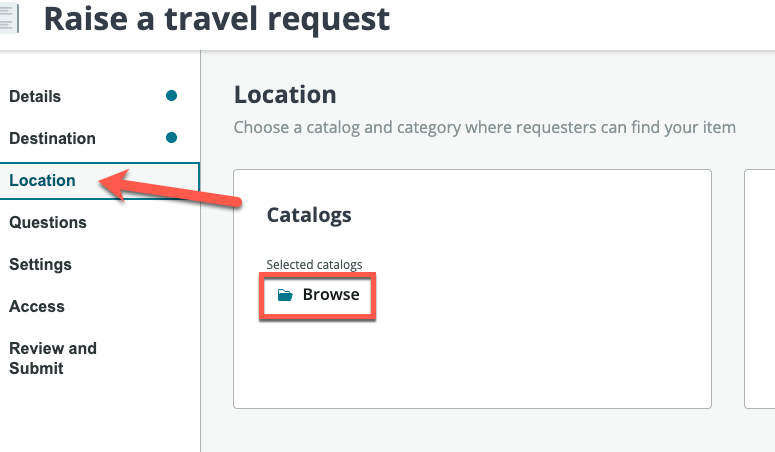
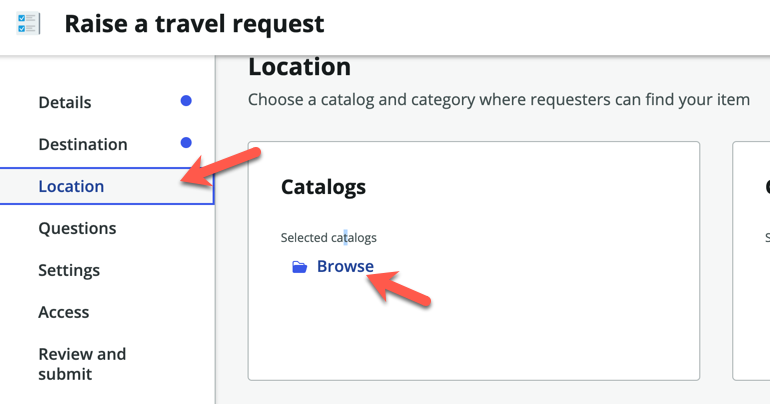
utah update

diff --git a/docs/Exercise 2.md b/docs/Exercise 2.md
@@ -23,8 +23,6 @@ For this exercise, we will focus on exposing your newly created table on one of 
 1. Click **Begin**
 
 1. On the **ADD EXPERIENCE** screen, enter *Raise a travel request* under **Name**, and *Capture employee travel requests* for description
-
-    ![relative](images/namerp.png)
     
 1. Click **Continue**
 
@@ -48,9 +46,11 @@ For this exercise, we will focus on exposing your newly created table on one of 
 
     ![relative](images/browse.png)
 
-1. On the next screen, look for **Service Catalog** under the **Available** section and move it to the right (Your list might appear different from the screenshot below)
+1. On the next screen, look for **Service Catalog** under the **Available** section and move it to the right
 
 1. Ensure that **Service Catalog** now appears in the **Selected** section
+
+    ![relative](images/browsesc.png)
 
 1. On the bottom right, click **Save selections**
 
@@ -58,13 +58,13 @@ For this exercise, we will focus on exposing your newly created table on one of 
 
 1. This time, do the same as before, and select **Can We Help You?** from the **Available** list
 
-    ![relative](images/selectservicecat.gif)
+1. On the bottom right, click **Save selections**
 
 1. On the left sidebar, select **Questions**
 
 1. Click on the dropdown arrow next to **Insert new question**, and click **Single column container**
 
-    ![relative](images/scc.png)
+    ![relative](images/addcolumn1.png)
 
 1. In the pop-up box, enter **Information** under **Title**
 
@@ -72,11 +72,7 @@ For this exercise, we will focus on exposing your newly created table on one of 
 
 1. Repeat the top 3 steps again, but this time select **Two column container** and enter **Dates and locations**
 
-    ![relative](images/addsections.gif)
-
-1. Your screen should look like this
-   
-    ![relative](images/questionscolumn.png)
+    ![relative](images/columndone.png)
 
 1. Expand the **Information** section, click the **Insert** icon, and select **New question**
 
@@ -93,19 +89,21 @@ For this exercise, we will focus on exposing your newly created table on one of 
     Question label | What is the reason for travel?
     Mandatory | **Checked**
 
-    ![relative](images/reasonfortravel1.gif)
+    ![relative](images/choicept1.png)
+
+    ![relative](images/choicept2.png)
 
 1. Click **Choices**
 
 1. Check **Include none choice**
 
-1. Under **Available Choices**, add the 3 reasons you added during table creation: Internal meeting, Customer meeting, Training
+1. Under **Available Choices**, add the 3 reasons you added during table creation for **Display name**: Customer meeting, Internal meeting, Training
 
-    >The **Value** column is automatically populated, leave it as it is.
+1. Copy each of these onto the **Value** column as well (Both **Display name** and **Value** will be the same)
+
+    ![relative](images/copychoices.png)
 
 1. On the bottom right, click **Insert Question**
-
-    ![relative](images/insertreason.gif)
 
 1. Expand the **Dates and locations** section
 
@@ -182,6 +180,8 @@ For this exercise, we will focus on exposing your newly created table on one of 
 1. Click **Now Mobile** on the left sidebar
 
     ![relative](images/nowmobile.png)
+
+    >Note: Virtual agent is not installed so you will not be able to preview the conversation.
 
 1. The experience also automatically gets added to the mobile catalog, so your users can request for travel on the go
 
